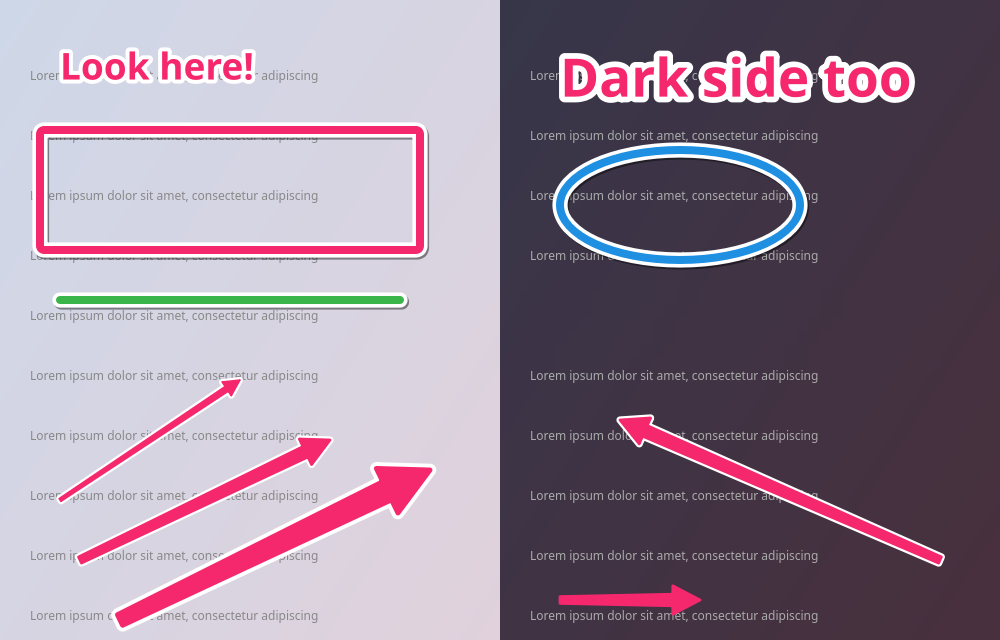
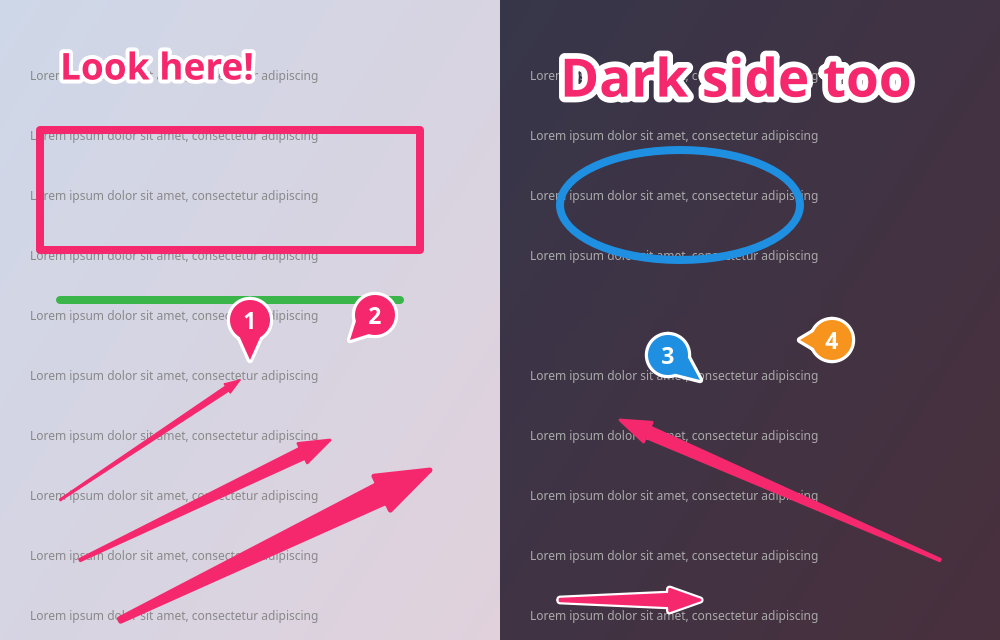
feat: match the real Skitch look (arrow taper, map pins, flat shapes) (#6)
Calibrated against screenshots of real Skitch on the same photos:

- Arrow: tail starts almost at a point, shaft widens continuously into a
  compact triangular head (was a blunt uniform shaft)
- Markers: compact map-pin shape with a short wide pointer that merges
  into the head, like Skitch stamps; dragging aims the pointer within a
  narrow distance band instead of stretching a long thin tail
- Arrows/shapes/lines draw flat by default like Skitch (outline toggle
  still available); text and pins always carry the white outline + shadow
- Rectangles get sharp corners

README demo images regenerated. Version 0.4.0.

diff --git a/skitchg/items.py b/skitchg/items.py
@@ -221,10 +221,12 @@ class ArrowItem(AnnotationItem):
         ux, uy = dx / length, dy / length
         px, py = -uy, ux  # perpendicular
 
+        # Skitch proportions: the tail starts almost at a point and the
+        # shaft widens continuously toward a compact triangular head.
         w = self.stroke_width
-        head_len = min(max(w * 3.4, 16.0), length * 0.55)
-        head_half = head_len * 0.52
-        tail_half = max(w * 0.42, 1.2)
+        head_len = min(max(w * 3.8, 14.0), length * 0.5)
+        head_half = w * 1.35
+        tail_half = max(w * 0.10, 0.8)
         neck_half = max(w * 0.72, 2.0)
 
         bx, by = e.x() - ux * head_len, e.y() - uy * head_len  # head base
@@ -395,8 +397,7 @@ class _RectBasedItem(AnnotationItem):
 class RectItem(_RectBasedItem):
     def _shape_path(self):
         path = QPainterPath()
-        radius = min(4.0, self.rect.width() / 4, self.rect.height() / 4)
-        path.addRoundedRect(self.rect, radius, radius)
+        path.addRect(self.rect)  # Skitch rectangles have sharp corners
         return path
 
 
@@ -547,12 +548,12 @@ class TextItem(AnnotationItem):
         painter.setRenderHint(painter.RenderHint.Antialiasing, True)
         path = self.text_path()
         outline_w = max(2.5, self.point_size / 7.0)
-        if self.outline:
-            painter.setPen(Qt.NoPen)
-            painter.setBrush(SHADOW_COLOR)
-            painter.drawPath(path.translated(1.5, 2.0))
-            painter.strokePath(path, QPen(OUTLINE_COLOR, outline_w * 2,
-                                          Qt.SolidLine, Qt.RoundCap, Qt.RoundJoin))
+        # Skitch text always carries the white outline for readability.
+        painter.setPen(Qt.NoPen)
+        painter.setBrush(SHADOW_COLOR)
+        painter.drawPath(path.translated(1.5, 2.0))
+        painter.strokePath(path, QPen(OUTLINE_COLOR, outline_w * 2,
+                                      Qt.SolidLine, Qt.RoundCap, Qt.RoundJoin))
         painter.fillPath(path, self.color)
         if self.editing:
             pen = QPen(QColor(30, 144, 255, 220), 0, Qt.DashLine)
@@ -585,7 +586,7 @@ class MarkerItem(AnnotationItem):
         self.editing = False
 
     def default_offset(self):
-        return self.radius * 2.1
+        return self.radius * 1.9
 
     def set_geometry(self, tip=None, head=None):
         self.prepareGeometryChange()
@@ -593,15 +594,14 @@ class MarkerItem(AnnotationItem):
             self.tip = QPointF(tip)
         if head is not None:
             head = QPointF(head)
-            # Keep the head far enough from the tip for a visible tail.
+            # Skitch pins are compact: dragging mostly aims the stubby tail,
+            # so the head stays within a narrow distance band from the tip.
             v = head - self.tip
             dist = math.hypot(v.x(), v.y())
-            min_dist = self.radius * 1.5
-            if dist < min_dist:
-                if dist < 1e-3:
-                    v, dist = QPointF(0, -1), 1.0
-                head = self.tip + v * (min_dist / dist)
-            self.head = head
+            if dist < 1e-3:
+                v, dist = QPointF(0, -1), 1.0
+            clamped = max(self.radius * 1.6, min(self.radius * 2.3, dist))
+            self.head = self.tip + v * (clamped / dist)
         self._layout_handles()
         self.update()
 
@@ -648,7 +648,8 @@ class MarkerItem(AnnotationItem):
             self.set_geometry(head=p)
 
     def marker_path(self):
-        """Round head united with a triangular tail ending at the tip."""
+        """Map-pin shape: round head with a short, wide integrated pointer,
+        like the classic Skitch stamps."""
         r = self.radius
         head_path = QPainterPath()
         head_path.addEllipse(self.head, r, r)
@@ -659,11 +660,14 @@ class MarkerItem(AnnotationItem):
             return head_path
         ux, uy = v.x() / dist, v.y() / dist
         px, py = -uy, ux
-        base_half = r * 0.62
+        base_half = r * 0.74
+        # Anchor the pointer base slightly toward the tip so it merges
+        # smoothly with the circle instead of crossing its center.
+        base = self.head + QPointF(ux * r * 0.35, uy * r * 0.35)
         tail = QPainterPath()
-        tail.moveTo(self.head + QPointF(px * base_half, py * base_half))
+        tail.moveTo(base + QPointF(px * base_half, py * base_half))
         tail.lineTo(self.tip)
-        tail.lineTo(self.head - QPointF(px * base_half, py * base_half))
+        tail.lineTo(base - QPointF(px * base_half, py * base_half))
         tail.closeSubpath()
         return head_path.united(tail)
 
@@ -688,14 +692,14 @@ class MarkerItem(AnnotationItem):
     def paint(self, painter, option, widget=None):
         painter.setRenderHint(painter.RenderHint.Antialiasing, True)
         path = self.marker_path()
-        if self.outline:
-            painter.setPen(Qt.NoPen)
-            painter.setBrush(SHADOW_COLOR)
-            painter.drawPath(path.translated(1.5, 2.0))
-            painter.setPen(QPen(OUTLINE_COLOR, self._outline_width() * 2,
-                                Qt.SolidLine, Qt.RoundCap, Qt.RoundJoin))
-            painter.setBrush(OUTLINE_COLOR)
-            painter.drawPath(path)
+        # Skitch pins always carry the white outline + shadow.
+        painter.setPen(Qt.NoPen)
+        painter.setBrush(SHADOW_COLOR)
+        painter.drawPath(path.translated(1.5, 2.0))
+        painter.setPen(QPen(OUTLINE_COLOR, self._outline_width() * 2,
+                            Qt.SolidLine, Qt.RoundCap, Qt.RoundJoin))
+        painter.setBrush(OUTLINE_COLOR)
+        painter.drawPath(path)
         painter.setPen(Qt.NoPen)
         painter.setBrush(self.color)
         painter.drawPath(path)

diff --git a/tests/test_smoke.py b/tests/test_smoke.py
@@ -112,10 +112,14 @@ def test_smoke():
     canvas.scene().addItem(m1)
     stack.push(AddItemCommand(canvas, m1))
     assert canvas._next_marker_number() == 2
-    m1.set_geometry(head=QPointF(260, 160))
-    assert m1.head == QPointF(260, 160)
-    m1.set_geometry(head=QPointF(201, 200))  # too close: pushed out to min dist
-    assert (m1.head - m1.tip).manhattanLength() >= m1.radius * 1.4
+    import math
+    m1.set_geometry(head=QPointF(260, 160))  # far away: clamped to pin band
+    d = math.hypot(m1.head.x() - m1.tip.x(), m1.head.y() - m1.tip.y())
+    assert m1.radius * 1.5 <= d <= m1.radius * 2.4
+    assert m1.head.x() > m1.tip.x() and m1.head.y() < m1.tip.y()  # aim kept
+    m1.set_geometry(head=QPointF(201, 200))  # too close: pushed out to min
+    d = math.hypot(m1.head.x() - m1.tip.x(), m1.head.y() - m1.tip.y())
+    assert d >= m1.radius * 1.5
     m1.set_style(radius=28.0)
     assert m1.radius == 28.0
     state = m1.get_state()

diff --git a/skitchg/main_window.py b/skitchg/main_window.py
@@ -155,8 +155,10 @@ class MainWindow(QMainWindow):
         self.outline_action = QAction(make_icon("outline", self._icon_color),
                                       "White outline / shadow", self)
         self.outline_action.setCheckable(True)
-        self.outline_action.setChecked(True)
-        self.outline_action.setToolTip("Toggle white outline + shadow for visibility")
+        self.outline_action.setChecked(False)
+        self.outline_action.setToolTip(
+            "White outline + shadow on arrows and shapes "
+            "(text and markers are always outlined)")
         self.outline_action.triggered.connect(self.set_outline)
         bar.addAction(self.outline_action)
 

diff --git a/skitchg/canvas.py b/skitchg/canvas.py
@@ -61,7 +61,8 @@ class Canvas(QGraphicsView):
         self.tool = "arrow"
         self.current_color = QColor(DEFAULT_COLOR)
         self.current_size_name = DEFAULT_STROKE
-        self.current_outline = True
+        # Skitch draws arrows/shapes flat; text and pins are always outlined.
+        self.current_outline = False
         # Sizes are in image pixels, so they scale with the image resolution
         # (a 4px arrow is invisible on a 24MP photo). The multiplier is the
         # on-the-fly adjustment driven by the mouse wheel.

diff --git a/skitchg/__init__.py b/skitchg/__init__.py
@@ -1,3 +1,3 @@
 """SkitchG — a fast, Skitch-inspired image annotation app for Linux."""
 
-__version__ = "0.3.0"
+__version__ = "0.4.0"

diff --git a/README.md b/README.md
@@ -13,7 +13,7 @@ Open an image → drag a big pink arrow → `Ctrl+C` → paste. Done.
 [![Qt for Python](https://img.shields.io/badge/GUI-PySide6%20%2F%20Qt6-41cd52?logo=qt&logoColor=white)](https://doc.qt.io/qtforpython-6/)
 [![Platform: Linux](https://img.shields.io/badge/platform-Linux-FCC624?logo=linux&logoColor=black)](#install)
 [![License: MIT](https://img.shields.io/badge/license-MIT-green)](LICENSE)
-[![Version](https://img.shields.io/badge/version-0.3.0-orange)](https://github.com/cgillinger/SkitchG/releases)
+[![Version](https://img.shields.io/badge/version-0.4.0-orange)](https://github.com/cgillinger/SkitchG/releases)
 
 <img src="docs/demo-annotations.png" alt="SkitchG annotations demo — thick pink Skitch-style arrows, outlined text, rectangle, ellipse and pixelate on light and dark backgrounds" width="700">
 
